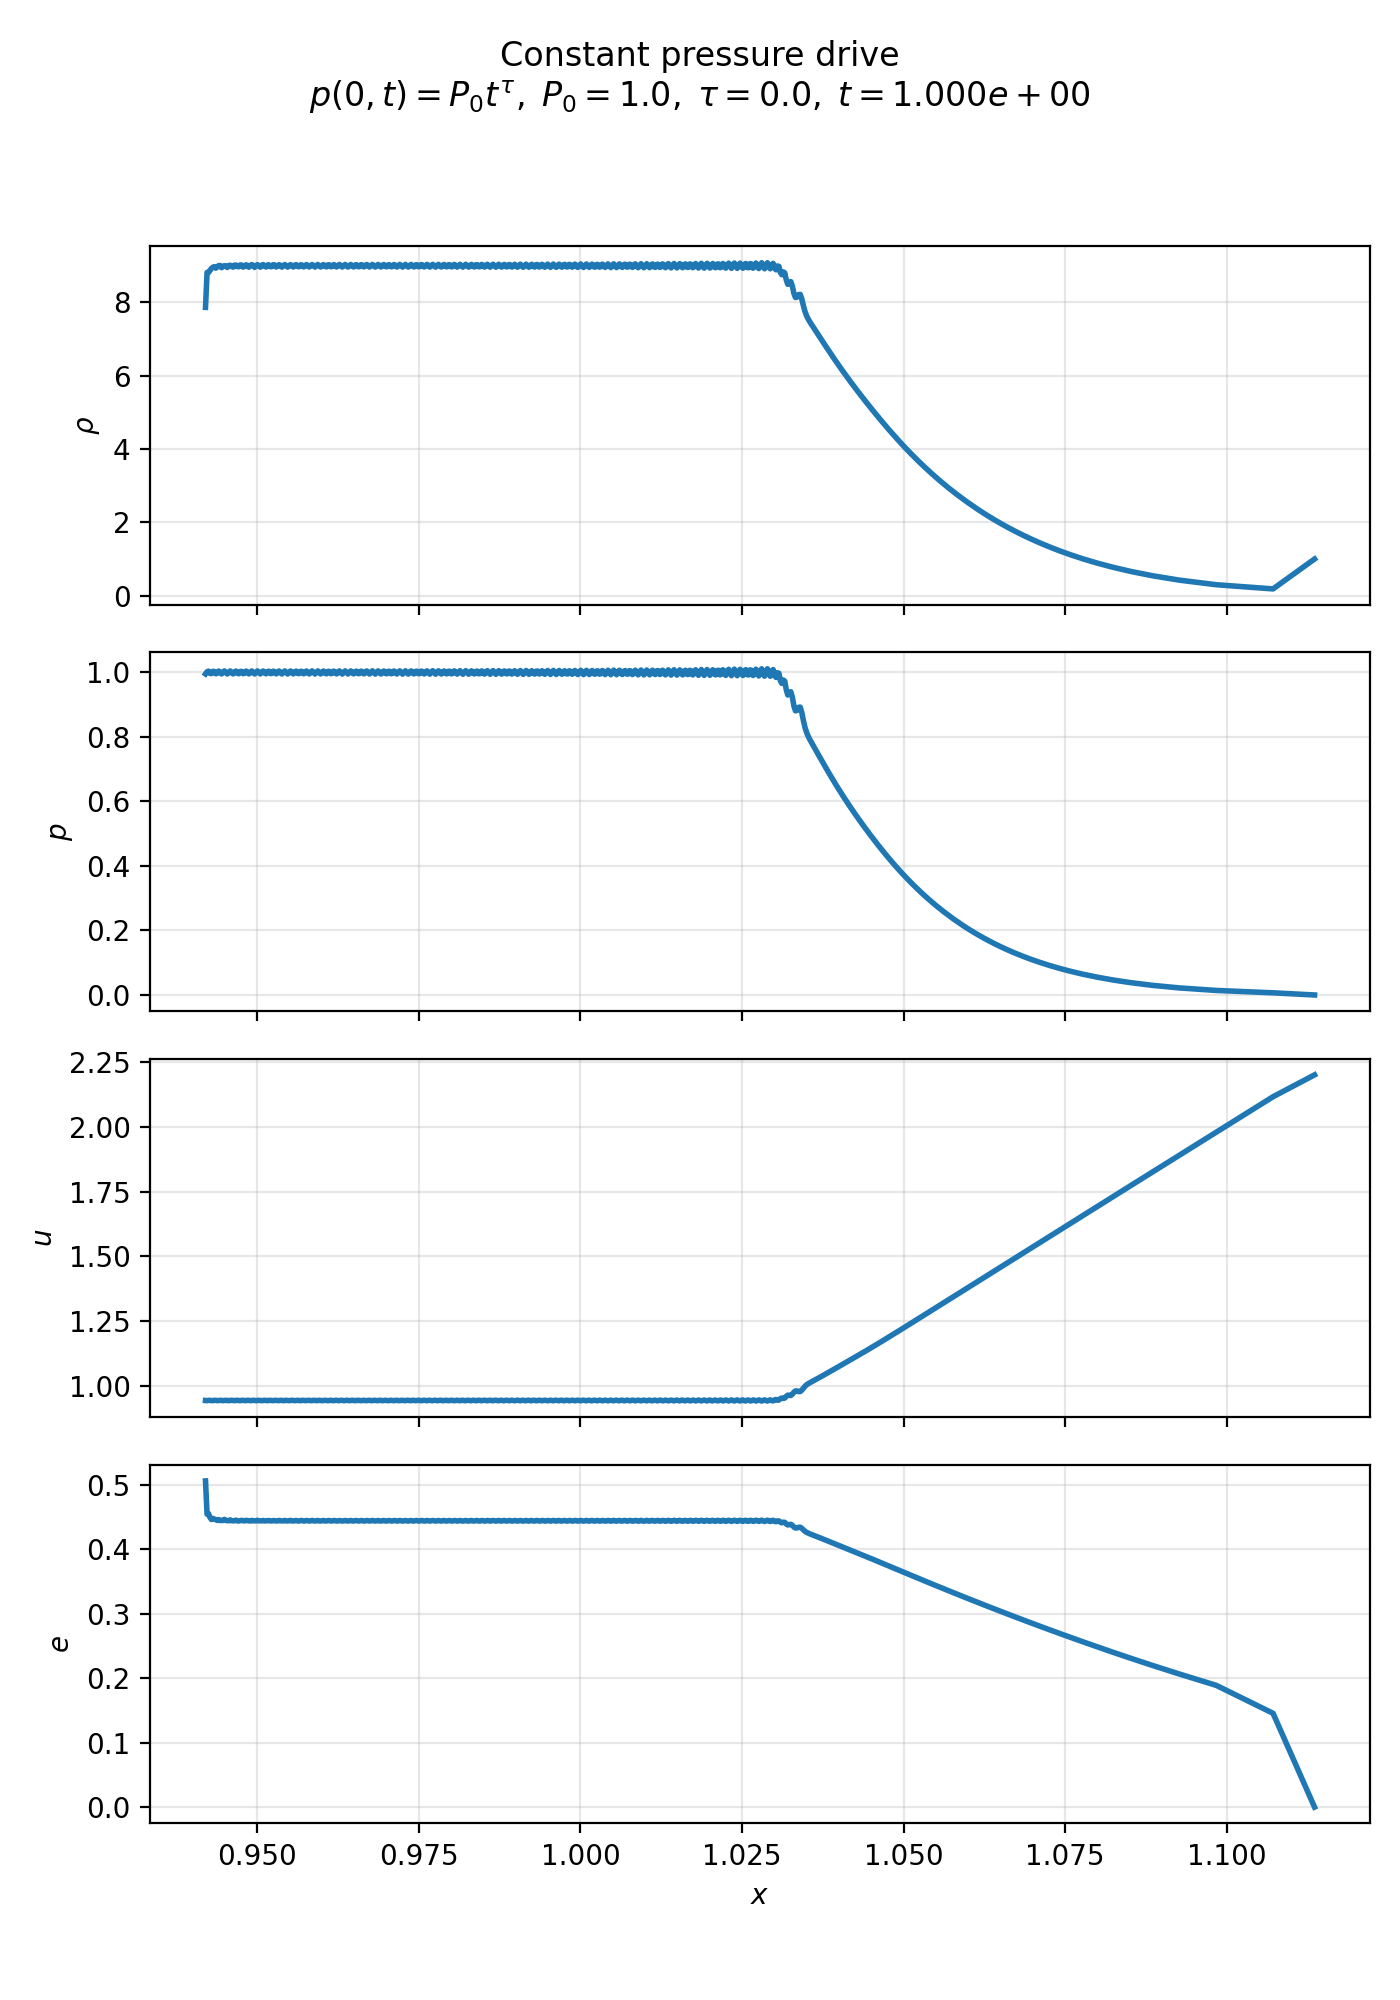
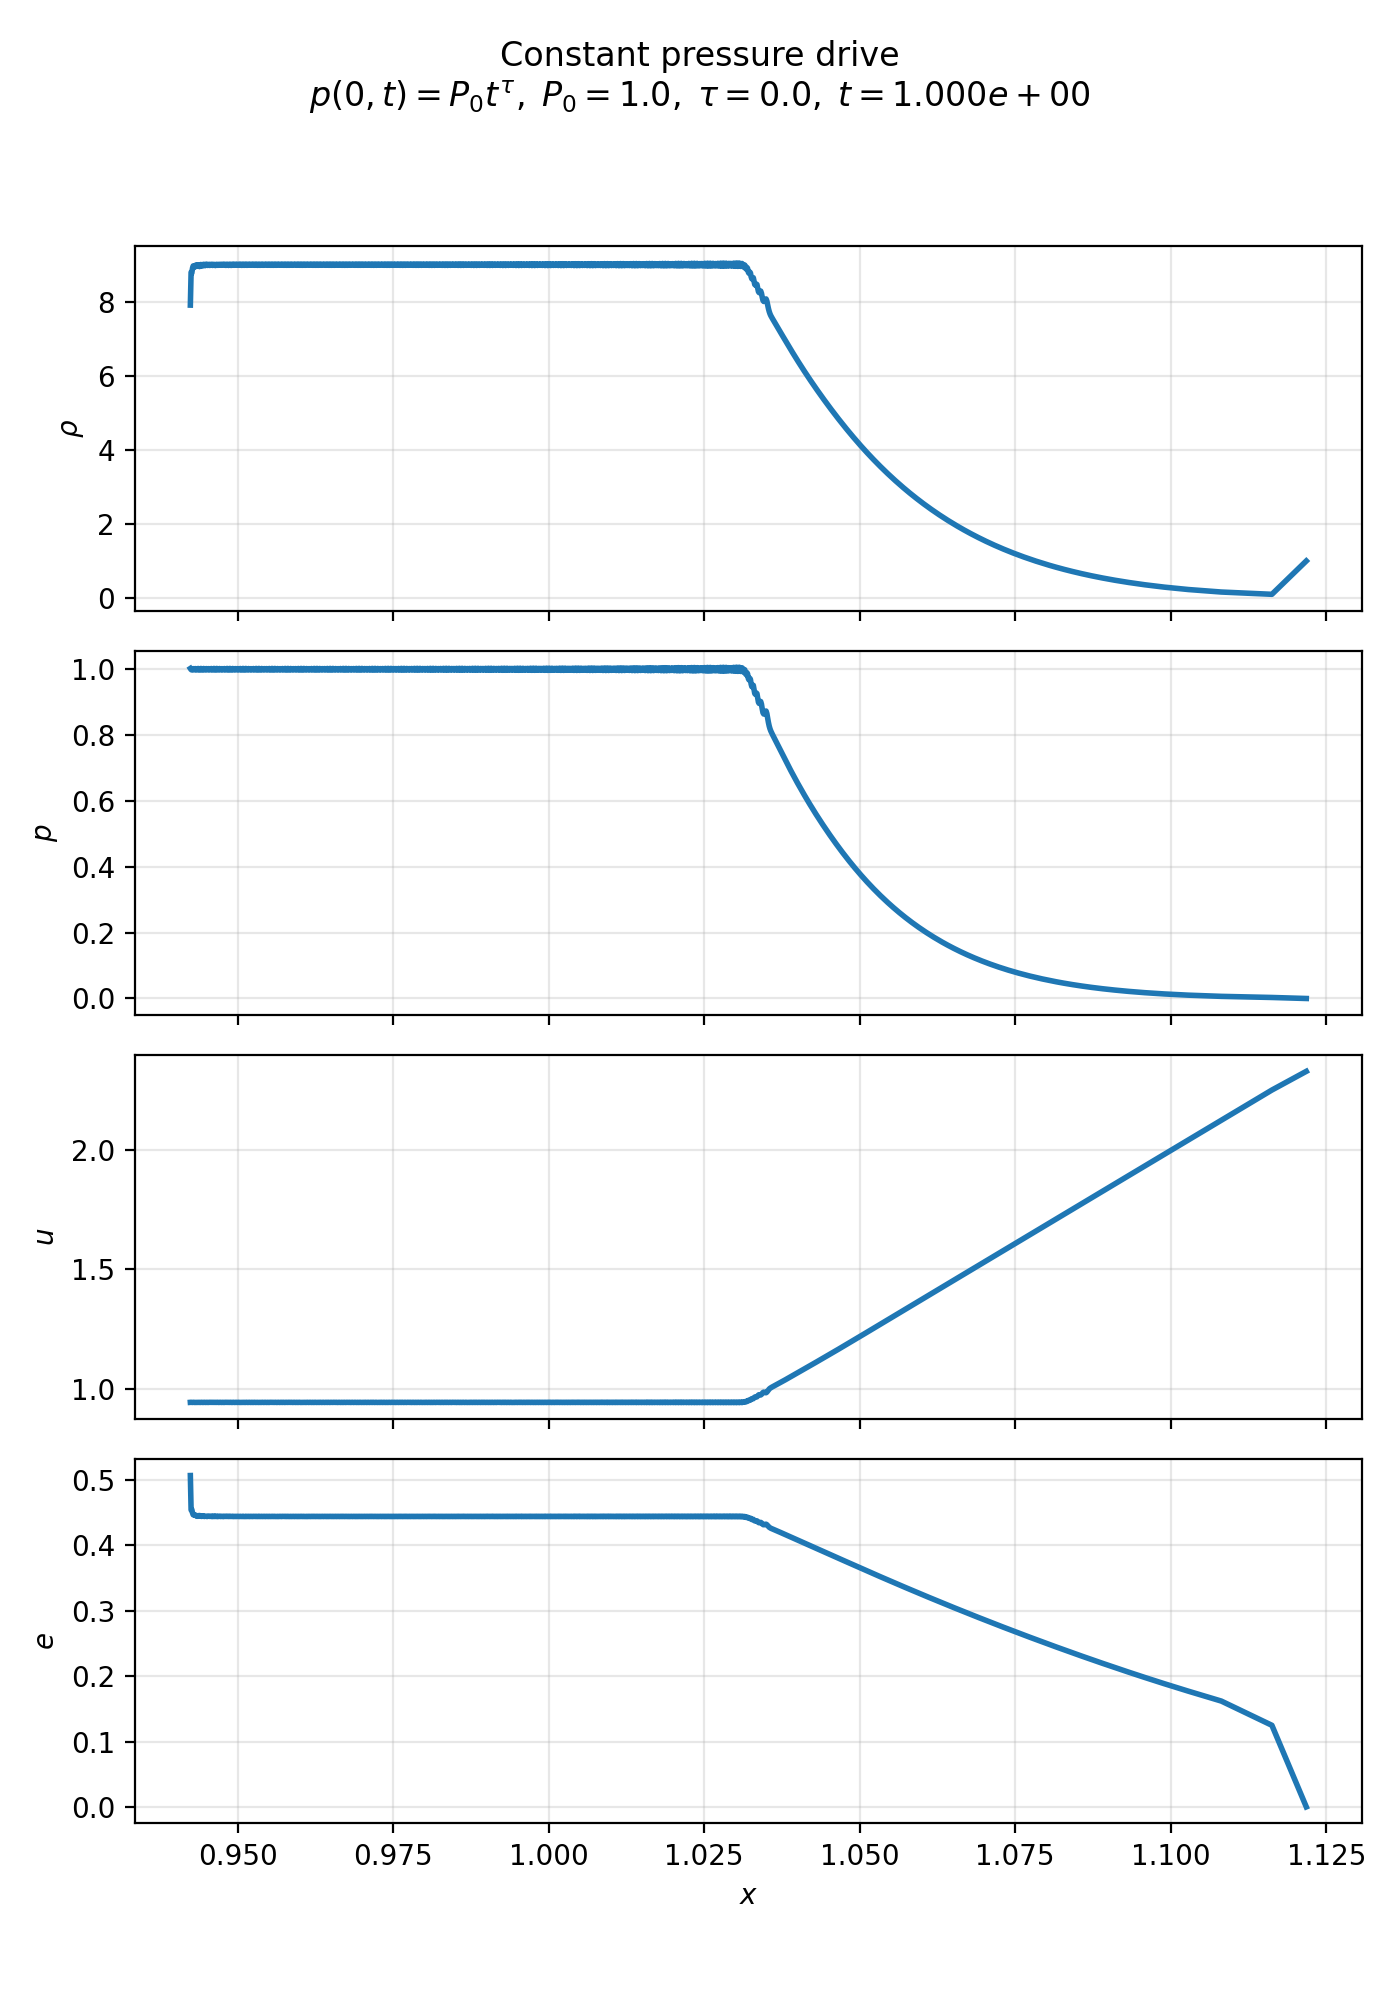
rad | hydro working properly

diff --git a/rad_hydro_sim/integrator.py b/rad_hydro_sim/integrator.py
@@ -17,11 +17,21 @@ def step_rad_hydro(state: RadHydroState, dt: float, case: RadHydroCase, config: 
     3. Take e_star, rho, and m_cells to perform radiation-matter coupling and get updated new_e_material and E_rad.
     4. Update pressure profile using new_e_material.
     """
+    # Determine boundary conditions based on case
+    if case.P0 is not None:
+        # Pressure-driven boundary
+        p_drive = case.P0 * (state.t ** case.tau) if state.t > 0 else 0.0
+        bc_left = {"type": "pressure", "p": p_drive}
+        bc_right = "outflow"
+    else:
+        bc_left = "outflow"
+        bc_right = "outflow"
+    
     if case.scenario == "hydro_only":
-        state_star = get_e_star_from_hydro(state, case.geom, case.r, config.sigma_visc, dt)
+        state_star = get_e_star_from_hydro(state, case.geom, case.r, config.sigma_visc, dt, bc_left, bc_right)
         new_e_material = state_star.e # Attempting to bypass the radiation step for now to isolate hydro behavior
         new_T = calculate_temperature_from_specific_energy(new_e_material, state_star.rho, case.f, case.gamma, case.mu)
-        new_state = update_nodes_from_pressure(state, case, new_e_material, dt)
+        new_state = update_nodes_from_pressure(state_star, case, new_e_material, dt, bc_left, bc_right, t_old=state.t)
         new_E_rad = np.zeros_like(state_star.rho) 
         new_state.T, new_state.E_rad = new_T, new_E_rad
     elif case.scenario == "radiation_only":
@@ -29,10 +39,10 @@ def step_rad_hydro(state: RadHydroState, dt: float, case: RadHydroCase, config: 
         new_T = calculate_temperature_from_specific_energy(new_e_material, state.rho, case.f, case.gamma, case.mu)
         new_state = state._replace(e=new_e_material, T=new_T, E_rad=new_E_rad)
     elif case.scenario == "full_rad_hydro":
-        state_star = get_e_star_from_hydro(state, case.geom, case.r, config.sigma_visc, dt)
+        state_star = get_e_star_from_hydro(state, case.geom, case.r, config.sigma_visc, dt, bc_left, bc_right)
         new_e_material, new_T, new_E_rad = radiation_step(state_star, dt, case)
         new_T = calculate_temperature_from_specific_energy(new_e_material, state_star.rho, case.f, case.gamma, case.mu)
-        new_state = update_nodes_from_pressure(state, case, new_e_material, dt)
+        new_state = update_nodes_from_pressure(state_star, case, new_e_material, dt, bc_left, bc_right, t_old=state.t)
         new_state.T, new_state.E_rad = new_T, new_E_rad
     new_state.t += dt
     return new_state

diff --git a/rad_hydro_sim/hydro_steps.py b/rad_hydro_sim/hydro_steps.py
@@ -3,6 +3,7 @@ import numpy as np
 from project_3.hydro_sim.core.geometry import Geometry, planar
 from project_3.hydro_sim.core.integrator import (
     _apply_velocity_bc_half,
+    _apply_velocity_bc_full,
     _get_boundary_pressures,
     compute_acceleration_nodes,
 )
@@ -19,6 +20,8 @@ def get_e_star_from_hydro(
     r: float,
     sigma_visc: float,
     dt: float,
+    bc_left="outflow",
+    bc_right="outflow",
 ) -> RadHydroState:
     """
     One time step implementing PDF Eqs.(11)-(19),
@@ -35,7 +38,7 @@ def get_e_star_from_hydro(
     u_half = state.u + 0.5 * dt * state.a
     
     # Apply velocity boundary conditions at half-step
-    # u_half = _apply_velocity_bc_half(u_half, bc_left, bc_right) # No velocity BCs for now!
+    u_half = _apply_velocity_bc_half(u_half, bc_left, bc_right)
  
     # (12) update nodes
     x_new = state.x + dt * u_half
@@ -58,7 +61,7 @@ def get_e_star_from_hydro(
     e_star = num / den
 
     state_star = RadHydroState(
-        t=state.t + dt,
+        t=state.t,
         x=x_new,
         u=u_half,
         a=state.a,  # acceleration will be updated after radiation step
@@ -74,20 +77,23 @@ def get_e_star_from_hydro(
 
     return state_star
 
-def update_nodes_from_pressure(state: RadHydroState, case: RadHydroCase, e_new, dt: float) -> RadHydroState:
+def update_nodes_from_pressure(state: RadHydroState, case: RadHydroCase, e_new, dt: float, bc_left="outflow", bc_right="outflow", t_old: float = 0.0) -> RadHydroState:
     # (17) pressure EOS
     p_new = pressure_ideal_gas(state.rho, e_new, gamma=case.r+1)
 
     # (18) acceleration from new (p,q)
+    # Determine boundary pressures at the NEW time (t_old + dt)
+    p_left_bc, p_right_bc = _get_boundary_pressures(bc_left, bc_right, p_new, t_old + dt)
     a_new = compute_acceleration_nodes(state.x, p_new, state.q, state.m_cells, planar(), 
-                                        p_left=1.0*state.t**0, p_right=None)
+                                        p_left=p_left_bc, p_right=p_right_bc)
 
     
     # (19) full-step velocity
-    u_new = state.u + 0.5 * dt * a_new
+    # state.u here is u_half from get_e_star_from_hydro
+    u_new = state.u + 0.5 * dt * a_new  # Complete the leapfrog: u_half + 0.5*dt*a_new
     
     # Apply velocity boundary conditions at full step
-    # u_new = _apply_velocity_bc_full(u_new, N) # No velocity BCs for now!
+    u_new = _apply_velocity_bc_full(u_new, bc_left, bc_right)
 
     new_state = RadHydroState(
         t=state.t + dt,

diff --git a/rad_hydro_sim/iterator.py b/rad_hydro_sim/iterator.py
@@ -95,23 +95,24 @@ def simulate_rad_hydro(
         while state.t < t_end:
             # Adaptive timestep
             if step > 2:
-                # dt_cfl = compute_dt_cfl(state.x, state.u, state.rho, state.p, rad_hydro_case.r+1, simulation_config.CFL)
-                dt_rel = update_dt_relchange(dt_prev, state.E_rad, E_rad_history[-1], state.T, T_history[-1])
-                # dt_rel = np.inf
-
-                # dt = min(dt_cfl, dt_rel, 0.05 * t_end, dt_prev * 1.1, t_end - state.t)
-                if np.isnan(dt):
-                    dt = min(0.05 * t_end, dt_prev * 1.1, t_end - state.t, 1e-12)
-                dt = min(dt_rel, 0.05 * t_end, dt_prev * 1.1, t_end - state.t)
+                if rad_hydro_case.scenario == "hydro_only":
+                    dt_cfl = compute_dt_cfl(state.x, state.u, state.rho, state.p, rad_hydro_case.r+1, simulation_config.CFL)
+                    if np.isnan(dt_cfl):
+                        dt_cfl = min(0.05 * t_end, dt_prev * 1.1, t_end - state.t, 1e-12)
+                    dt = min(dt_cfl, 0.05 * t_end, dt_prev * 1.1, t_end - state.t)
+                if rad_hydro_case.scenario == "radiation_only":
+                    dt_rel = update_dt_relchange(dt_prev, state.E_rad, E_rad_history[-1], state.T, T_history[-1])
+                    dt = min(dt_rel, 0.05 * t_end, dt_prev * 1.1, t_end - state.t, 1e-12)
+                elif rad_hydro_case.scenario == "full_rad_hydro":
+                    dt_cfl = compute_dt_cfl(state.x, state.u, state.rho, state.p, rad_hydro_case.r+1, simulation_config.CFL)
+                    dt_rel = update_dt_relchange(dt_prev, state.E_rad, E_rad_history[-1], state.T, T_history[-1])
+                    dt = min(dt_cfl, dt_rel, 0.05 * t_end, dt_prev * 1.1, t_end - state.t)
+                    if np.isnan(dt):
+                        dt = min(0.05 * t_end, dt_prev * 1.1, t_end - state.t, 1e-12)
             else:
                 # Small initial timestep for stability
                 dt = min(1e-13, 1e-6 * t_end, t_end - state.t)
             # print(dt)
-            if step > 300 and step % 10 == 0:
-                pass
-            if dt > 0.00022:
-                pass
-
             dt_prev = dt
 
 

diff --git a/rad_hydro_sim/problems/presets_config.py b/rad_hydro_sim/problems/presets_config.py
@@ -34,6 +34,7 @@ SIMPLE_TEST_CASES = {
 
         # Boundary conditions
         T0 = 0.86, # Hev units
+        P0 = None,
         tau = 1.0,
 
         # initial conditions
@@ -75,7 +76,51 @@ SIMPLE_TEST_CASES = {
         chi = 1000,
 
         # Boundary conditions
-        T0 = 0.86, # Hev units
+        T0 = None, 
+        P0 = 1.0,
+        tau = 0.0,
+
+        # initial conditions
+        rho0 = 1.0,
+        p0 = 1e-6,
+        u0 = 0.0,
+
+        T_initial = None,
+
+        # adiabatic index
+        r = 0.25, # r = \gamma_adiabatic - 1
+
+        # Initial conditions0
+        
+        # grid parameters
+        x_min = 0.0,
+        x_max = 1.0,
+        t_end = 1.0,
+
+        initial_condition="pressure, velocity, density",
+        scenario="hydro_only",
+        title = "",
+        
+        # Geometry
+        geom = planar()  # Default to planar geometry
+    ),
+    "power_law_pressure_drive": RadHydroCase(
+    # Rosen's opacity parameters
+        g = 1.0/7200,
+        alpha = 1.5,
+        lambda_ = 0.2,
+
+        # Rosen's specific energy parameters
+        f = 3.4e13,
+        gamma = 1.6,
+        mu = 0.14,
+
+        # coupling factor
+        chi = 1000,
+
+        # Boundary conditions
+        T0 = None, 
+        P0 = 1.0,
         tau = 1.0,
 
         # initial conditions
@@ -117,7 +162,8 @@ SIMPLE_TEST_CASES = {
         chi = 1000,
 
         # Boundary conditions
-        T0 = 0.86, # Hev units
+        T0 = 0.86,
+        P0 = None,
         tau = 0.0,
 
         # initial conditions
@@ -152,6 +198,10 @@ PRESETS: Dict[str, Tuple[HydroCase, SimulationConfig]] = {
     # -------------------------------------------------------------------------
     "hydro_only_constant_pressure_drive": (
         SIMPLE_TEST_CASES["constant_pressure_drive"],
+        SIMULATION_CONFIGS["all_outputs"],
+    ),
+    "hydro_only_power_law_pressure_drive": (
+        SIMPLE_TEST_CASES["power_law_pressure_drive"],
         SIMULATION_CONFIGS["all_outputs"],
     ),
     "radiation_only_constant_temperature_drive": (

diff --git a/rad_hydro_sim/run_rad_hydro.py b/rad_hydro_sim/run_rad_hydro.py
@@ -1,5 +1,6 @@
 import sys
 from pathlib import Path
+from typing import Dict, Tuple
 
 import numpy as np
 
@@ -14,7 +15,7 @@ from project_3.hydro_sim.plotting.hydro_plots import save_history_gif
 from project_3.rad_hydro_sim.iterator import simulate_rad_hydro
 from project_3.rad_hydro_sim.plotting.slider import plot_history_slider
 from project_3.rad_hydro_sim.problems.RadHydroCase import RadHydroCase
-from project_3.hydro_sim.problems.simulation_config import SimulationConfig
+from project_3.hydro_sim.problems.simulation_config import SIMULATION_CONFIGS, SimulationConfig
 
 def run_simulation(
     case: RadHydroCase,
@@ -76,7 +77,7 @@ def main():
     """Run a simulation with a predefined preset."""
     
     # ===== SELECT YOUR PRESET HERE =====
-    preset_name = "hydro_only_constant_pressure_drive"  
+    preset_name = "hydro_only_power_law_pressure_drive"  
     
     # Get case and config from preset
     case, config = get_preset(preset_name)
@@ -92,3 +93,4 @@ def main():
 
 if __name__ == "__main__":
     main()
+

diff --git a/hydro_sim/core/integrator.py b/hydro_sim/core/integrator.py
@@ -89,7 +89,7 @@ def step_lagrangian(state: HydroState,
     # Determine boundary pressures for acceleration calculation
     p_left, p_right = _get_boundary_pressures(bc_left, bc_right, p_new, state.t + dt)
     a_new = compute_acceleration_nodes(x_new, p_new, q_new, m_cells, geom, 
-                                        p_left=1.0*state.t**0, p_right=p_right)
+                                        p_left=p_left, p_right=p_right)
 
     # (19) full-step velocity
     u_new = u_half + 0.5 * dt * a_new

diff --git a/rad_hydro_sim/plotting/slider.py b/rad_hydro_sim/plotting/slider.py
@@ -58,6 +58,11 @@ def plot_history_slider(
                 f"{case_title}\n"
                 f"$T(0,t)=T_0 t^{{\\tau}},\\; T_0={case.T0},\\; \\tau={case.tau},\\; t={t:.3e}$"
             )
+        elif hasattr(case, 'P0') and hasattr(case, 'tau'):
+            title.set_text(
+                f"{case_title}\n"
+                f"$P(0,t)=P_0 t^{{\\tau}},\\; P_0={case.P0},\\; \\tau={case.tau},\\; t={t:.3e}$"
+            )
         else:
             title.set_text(f"{case_title}, t={t:.3e}")
     

diff --git a/hydro_sim/simulations/lagrangian_sim.py b/hydro_sim/simulations/lagrangian_sim.py
@@ -215,7 +215,7 @@ def simulate_lagrangian(
                 dt = 1e-13 if sim_type in (SimulationType.DRIVEN_SHOCK, SimulationType.SEDOV) else 1e-6 * t_end
             print(dt)
             dt_prev = dt
-            if step > 300 and step % 10 == 0:
+            if step > 3000 and step % 10 == 0:
                 pass
 
             # Get boundary conditions for current state

diff --git a/rad_hydro_sim/problems/RadHydroCase.py b/rad_hydro_sim/problems/RadHydroCase.py
@@ -36,6 +36,7 @@ class RadHydroCase(ABC):
 
     # Boundary conditions
     T0: float
+    P0: float
     tau: float
 
     # initial conditions
